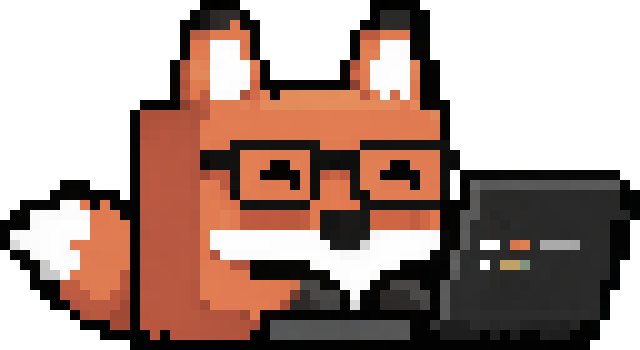
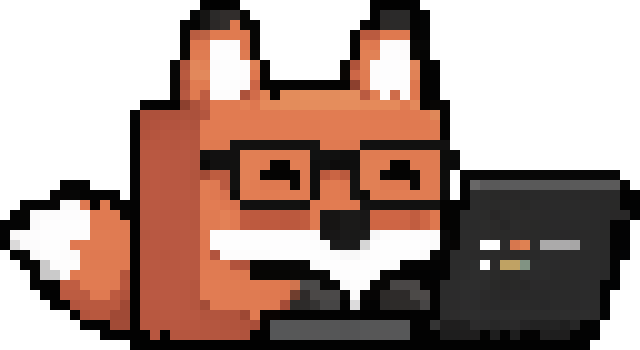
Fox takes energy drink breaks while coding
- Pixel energy can that appears for a swig and tucks away again; it
  tilts about its base so the rim lands on the muzzle, with the right
  paw held up and typing paused for the duration
- Two swigs per coding session (4.2s and 10.6s in)
- Re-entering the header no longer restarts the wake sequence while
  the fox is already coding
- Drop the light highlight down the laptop's left edge, which read as
  seeing the back of the lid

Changed region(s): [[0.6875, 0.7143, 0.7188, 0.9143], [0.7188, 0.5429, 0.75, 0.7143]]

diff --git a/index.md b/index.md
@@ -134,6 +134,39 @@ h2 { font-size: 1.75em; }
 .foxwrap.coding .fox-code-r { animation: fox-type-r 0.34s steps(1) infinite; }
 .foxwrap.coding .fox-code-g { animation: fox-nudge  5.4s  steps(1) infinite; }
 
+/* energy drink on the desk; every so often the fox takes a swig */
+.foxwrap .can {
+  position: absolute;
+  left: 43px;
+  top: auto;        /* cancel the shared `top: 0`, or the can stretches full-height */
+  bottom: 1px;
+  width: 7px;
+  height: auto;
+  opacity: 0;
+  transform-origin: 50% 90%;
+  transition: none;
+  image-rendering: pixelated;
+}
+/* the can is not on the desk — it only comes out for the swig */
+
+/* The swig. The can rests right beside the right paw, and the fox's mouth
+   sits at about (41, 36) in this box — so tilting the can about its base
+   already lands the rim on the muzzle; it only needs a small lift. */
+.foxwrap.drinking .can { animation: fox-drink 2.4s ease-in-out 1; }
+
+@keyframes fox-drink {
+  0%        { opacity: 0; transform: translate(0, 9px)    rotate(4deg); }
+  14%       { opacity: 1; transform: translate(0, 0)      rotate(-9deg); }
+  32%, 66%  { opacity: 1; transform: translate(2.5px, -1px) rotate(-42deg); }  /* rim on the muzzle */
+  84%       { opacity: 1; transform: translate(0, 0)      rotate(-8deg); }
+  100%      { opacity: 0; transform: translate(0, 9px)    rotate(4deg); }
+}
+
+/* while drinking: the right paw stays raised (holding the can) and the
+   typing loop pauses, so the paw doesn't flap mid-swig */
+.foxwrap.drinking .fox-code-l { animation: none; opacity: 0; }
+.foxwrap.drinking .fox-code-r { animation: none; opacity: 1; }
+
 @keyframes fox-type-l { 0%, 49%  { opacity: 1; } 50%, 100% { opacity: 0; } }
 @keyframes fox-type-r { 0%, 49%  { opacity: 0; } 50%, 100% { opacity: 1; } }
 @keyframes fox-nudge  { 0%, 90%  { opacity: 0; } 91%, 96% { opacity: 1; } 97%, 100% { opacity: 0; } }
@@ -158,7 +191,8 @@ h2 { font-size: 1.75em; }
 
 /* touch devices: no hover, so just show the sleeping fox */
 @media (hover: none) {
-  .foxwrap .fox-wake, .foxwrap .fox-code, .foxwrap .excl, .foxwrap .caret { display: none; }
+  .foxwrap .fox-wake, .foxwrap .fox-code, .foxwrap .excl, .foxwrap .caret,
+  .foxwrap .can { display: none; }
 }
 
 /* keep code monospaced */
@@ -254,7 +288,7 @@ h1 {
 
 <div class="profile-header">
   <div class="profile-content">
-    <h1>Alexis Fox<span class="foxwrap"><img class="fox-sleep" src="assets/images/fox.png" alt=""><img class="fox-wake" src="assets/images/fox-wake.png" alt=""><img class="fox-code" src="assets/images/fox-coding.png" alt=""><img class="fox-code fox-code-l" src="assets/images/fox-coding-l.png" alt=""><img class="fox-code fox-code-r" src="assets/images/fox-coding-r.png" alt=""><img class="fox-code fox-code-g" src="assets/images/fox-coding-g.png" alt=""><img class="excl" src="assets/images/excl.png" alt=""><span class="caret"></span></span></h1>
+    <h1>Alexis Fox<span class="foxwrap"><img class="fox-sleep" src="assets/images/fox.png" alt=""><img class="fox-wake" src="assets/images/fox-wake.png" alt=""><img class="fox-code" src="assets/images/fox-coding.png" alt=""><img class="fox-code fox-code-l" src="assets/images/fox-coding-l.png" alt=""><img class="fox-code fox-code-r" src="assets/images/fox-coding-r.png" alt=""><img class="fox-code fox-code-g" src="assets/images/fox-coding-g.png" alt=""><img class="excl" src="assets/images/excl.png" alt=""><span class="caret"></span><img class="can" src="assets/images/can.png" alt=""></span></h1>
 
 <script>
   // Hovering anywhere in the profile block startles the fox awake ("!"),
@@ -270,6 +304,9 @@ h1 {
     setTimeout(function () { ready = true; }, 1000);
     block.addEventListener('mouseenter', function () {
       if (!ready) return;
+      // Already awake or mid-session? Leave it be — re-entering the header
+      // shouldn't startle a fox that's busy coding.
+      if (wrap.classList.contains('awake')) return;
       timers.forEach(clearTimeout);
       timers = [];
       wrap.classList.remove('coding');
@@ -277,8 +314,17 @@ h1 {
       timers.push(setTimeout(function () {                          // settles in to code
         wrap.classList.add('coding');
       }, 800));
+      // take a swig a few seconds in, and again later
+      [4200, 10600].forEach(function (t) {
+        timers.push(setTimeout(function () {
+          wrap.classList.add('drinking');
+          timers.push(setTimeout(function () {
+            wrap.classList.remove('drinking');
+          }, 2400));
+        }, t));
+      });
       timers.push(setTimeout(function () {                          // ...then dozes off again
-        wrap.classList.remove('awake', 'coding');
+        wrap.classList.remove('awake', 'coding', 'drinking');
       }, 15800));
     });
   });
